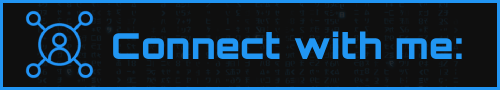
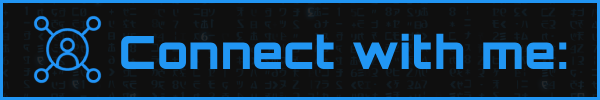
06

Changed region(s): [[0.03, 0.1111, 0.96, 0.8667], [0.0, 0.0222, 1.0, 0.9778]]

diff --git a/README.md b/README.md
@@ -42,7 +42,6 @@ I am a tormented being, a Student, Graphic Designer, Developer, and YouTube cont
 <!-- SOCIAL MEDIA LINKS START -->
 <div>
 <img src="./images/badge/connect-with-me.png"  width="24%" alt="Llewellyn's Portfolio Badge [Down]" title="Llewellyn's Portfolio [Down]" loading="eager" decoding="async" longdesc="A custom made badge that leads to the Portfolio of Llewellyn Adonteng Paintsil">
-<!-- <img src="./images/others/connect.gif" width="3%" alt="Connect with me GIF" title="Connect With Me" loading="lazy" decoding="async" longdesc="A custom made gif of connecting with people"/> <span style="font-size: large"> Connect with me: </span> <img src="./images/others/connect.gif" width="3%" alt="Connect with me GIF" title="Connect With Me" loading="lazy" decoding="async" longdesc="A custom made gif of connecting with people"/> -->
 </div>
 <div>
 <a href="#" target="_blank">
@@ -62,10 +61,14 @@ I am a tormented being, a Student, Graphic Designer, Developer, and YouTube cont
 </div>
 <!-- SOCIAL MEDIA LINKS END -->
 
+---
+
 <!-- Spotify now playing start -->
 <div>
-<h2><img src="./images/others/music.gif" alt="music icon" width="3%" title="My Spotify now playing" loading="lazy" decoding="async" longdesc="A musical note"/> Spotify Now Playing <img src="./images/others/music.gif" alt="music icon" width="3%" title="My Spotify now playing" loading="lazy" decoding="async" longdesc="A musical note"/></h2>
-  
+<img src="./images/badge/spotify-now-play.png"  width="40%" alt="Llewellyn's Portfolio Badge [Down]" title="Llewellyn's Portfolio [Down]" loading="eager" decoding="async" longdesc="A custom made badge that leads to the Portfolio of Llewellyn Adonteng Paintsil">
+</div>
+<div>
+
 [![Spotify](https://spotify-now-playing-two-nu.vercel.app/api/spotify)](https://open.spotify.com/user/31oqgy33mbfmztovhp2eguowwti4)
 
 </div>
@@ -73,7 +76,10 @@ I am a tormented being, a Student, Graphic Designer, Developer, and YouTube cont
 
 ---
 
-<h2 align="center"><img src="./images/others/video.gif" width="3%" alt="Latest Video GIF" title="Latest Video Gif" loading="lazy" decoding="async" longdesc="A custom made gif of Latest Video"/> Latest LAP YouTube Videos <img src="./images/others/video.gif" width="3%" alt="Latest Video GIF" title="Latest Video Gif" loading="lazy" decoding="async" longdesc="A custom made gif of Latest Video"/></h2>
+<div align="center">
+<img src="./images/badge/latest-lap-youtube-videos.png"  width="40%" alt="Llewellyn's Portfolio Badge [Down]" title="Llewellyn's Portfolio [Down]" loading="eager" decoding="async" longdesc="A custom made badge that leads to the Portfolio of Llewellyn Adonteng Paintsil">
+</div>
+<div>
 
 <!-- BEGIN LAP-TUTORIALS-YOUTUBE-CARDS -->
 [![How To Check If Your PC Can Play a Game Before You Download It | Can You Run It?](https://ytcards.demolab.com/?id=HES5yDR6W5A&title=How+To+Check+If+Your+PC+Can+Play+a+Game+Before+You+Download+It+%7C+Can+You+Run+It%3F&lang=en&timestamp=1698346807&background_color=%23101010&title_color=%23FBFBFD&stats_color=%232196f3&max_title_lines=1&width=250&border_radius=5 "How To Check If Your PC Can Play a Game Before You Download It | Can You Run It?")](https://www.youtube.com/watch?v=HES5yDR6W5A#gh-dark-mode-only)[![How To Check If Your PC Can Play a Game Before You Download It | Can You Run It?](https://ytcards.demolab.com/?id=HES5yDR6W5A&title=How+To+Check+If+Your+PC+Can+Play+a+Game+Before+You+Download+It+%7C+Can+You+Run+It%3F&lang=en&timestamp=1698346807&background_color=%23101010&title_color=%23FBFBFD&stats_color=%232196f3&max_title_lines=1&width=250&border_radius=5 "How To Check If Your PC Can Play a Game Before You Download It | Can You Run It?")](https://www.youtube.com/watch?v=HES5yDR6W5A#gh-light-mode-only)
@@ -91,7 +97,10 @@ I am a tormented being, a Student, Graphic Designer, Developer, and YouTube cont
 
 ---
 
-<h2 align="center"><img src="./images/others/video.gif" width="3%" alt="Latest Video GIF" title="Latest Video Gif" loading="lazy" decoding="async" longdesc="A custom made gif of Latest Video"/> Latest Arclapain YouTube Videos <img src="./images/others/video.gif" width="3%" alt="Latest Video GIF" title="Latest Video Gif" loading="lazy" decoding="async" longdesc="A custom made gif of Latest Video"/></h2>
+<div align="center">
+<img src="./images/badge/latest-arclapain-youtube-video.png"  width="40%" alt="Llewellyn's Portfolio Badge [Down]" title="Llewellyn's Portfolio [Down]" loading="eager" decoding="async" longdesc="A custom made badge that leads to the Portfolio of Llewellyn Adonteng Paintsil">
+</div>
+<div>
 
 <!-- BEGIN ARCLAPAIN-YOUTUBE-CARDS -->
 [![Attack on Titan 2 - Final Battle Walkthrough Gameplay Part 02 | Difficulty: Hard | No Commentary](https://ytcards.demolab.com/?id=SDtH4kXFLrY&title=Attack+on+Titan+2+-+Final+Battle+Walkthrough+Gameplay+Part+02+%7C+Difficulty%3A+Hard+%7C+No+Commentary&lang=en&timestamp=1699642811&background_color=%23101010&title_color=%23FBFBFD&stats_color=%232196f3&max_title_lines=1&width=250&border_radius=5 "Attack on Titan 2 - Final Battle Walkthrough Gameplay Part 02 | Difficulty: Hard | No Commentary")](https://www.youtube.com/watch?v=SDtH4kXFLrY#gh-dark-mode-only)[![Attack on Titan 2 - Final Battle Walkthrough Gameplay Part 02 | Difficulty: Hard | No Commentary](https://ytcards.demolab.com/?id=SDtH4kXFLrY&title=Attack+on+Titan+2+-+Final+Battle+Walkthrough+Gameplay+Part+02+%7C+Difficulty%3A+Hard+%7C+No+Commentary&lang=en&timestamp=1699642811&background_color=%23101010&title_color=%23FBFBFD&stats_color=%232196f3&max_title_lines=1&width=250&border_radius=5 "Attack on Titan 2 - Final Battle Walkthrough Gameplay Part 02 | Difficulty: Hard | No Commentary")](https://www.youtube.com/watch?v=SDtH4kXFLrY#gh-light-mode-only)
